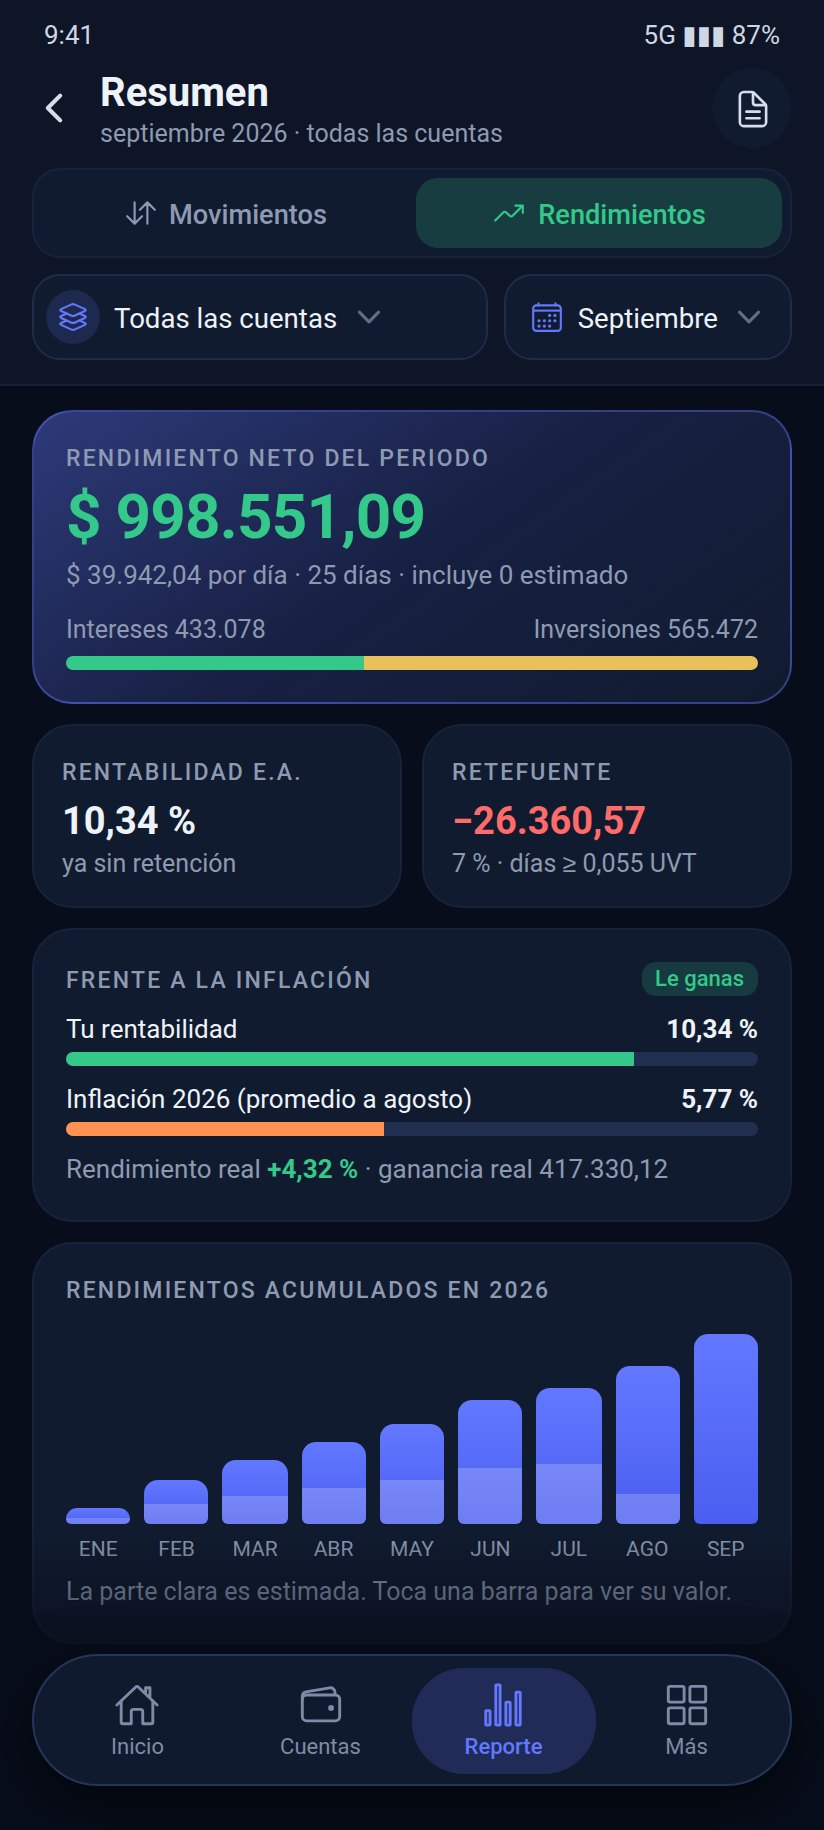
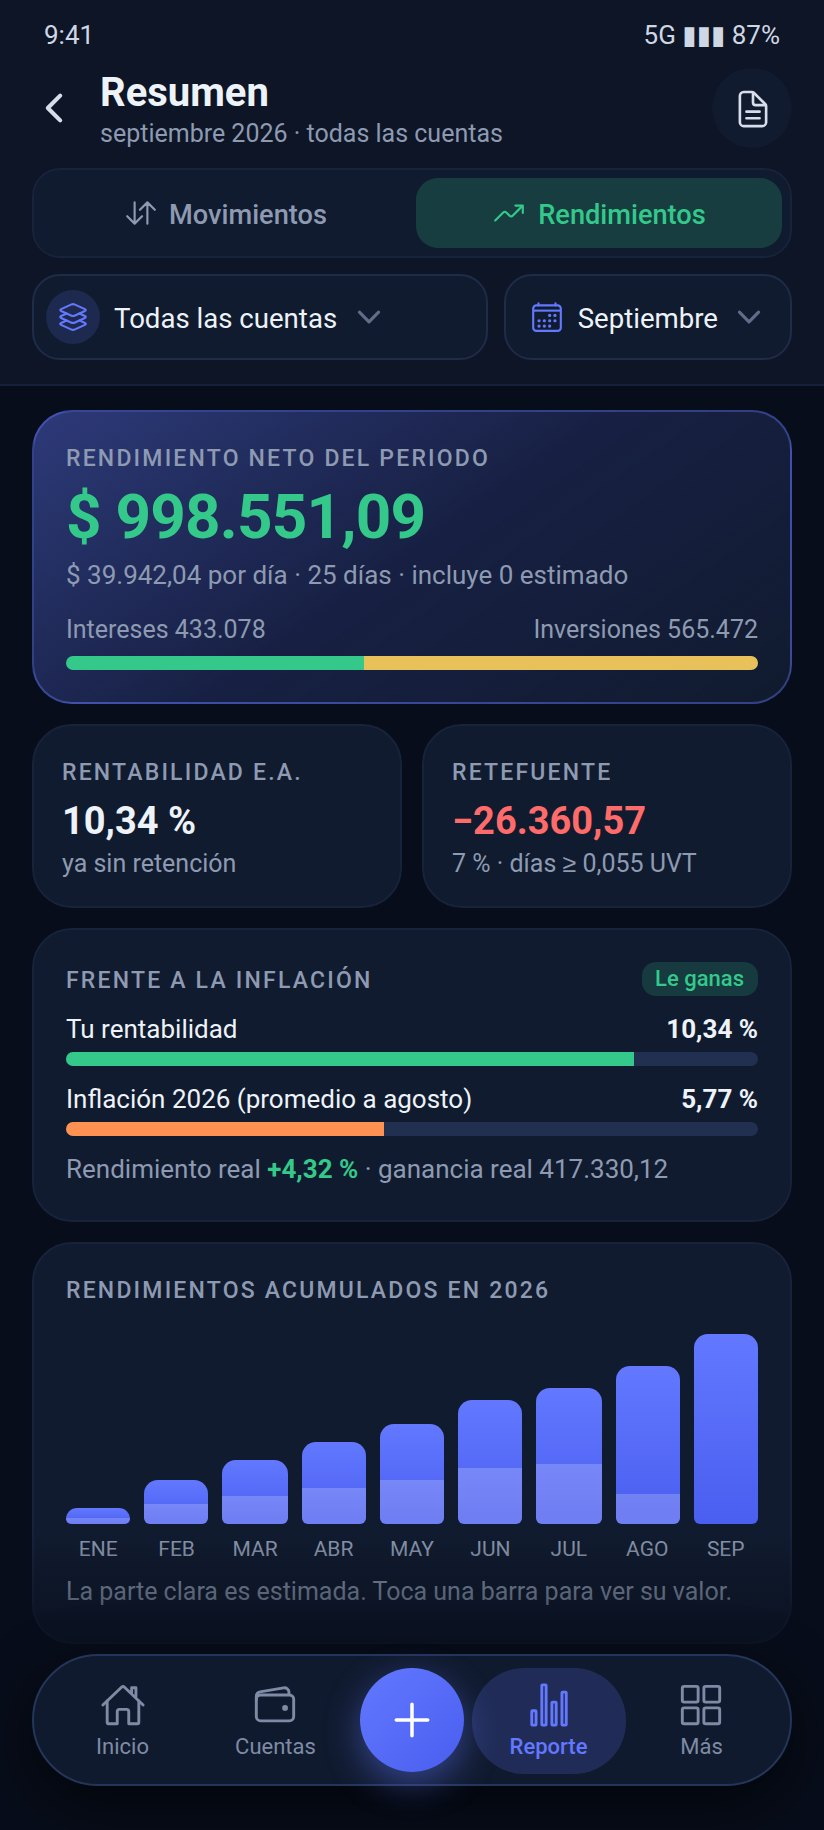
Draw group 2 of the redesign: accounts, net worth and currencies
Sixteen screens covering everything the accounts screen, its editor and
the currency dialog do today, with the rules agreed on group 1. Replaces
the v3 drafts b01-b07. CLAUDE.md records group 1 as approved and the
three changes of access group 2 proposes.

Claude-Session: https://claude.ai/code/session_01QyUqFix1SMdsKVBtd1Wz88

Changed region(s): [[0.3034, 0.9033, 0.7585, 0.9967], [0.7888, 0.9033, 0.8799, 0.9656], [0.1214, 0.9033, 0.182, 0.9656]]

diff --git a/CLAUDE.md b/CLAUDE.md
@@ -2049,8 +2049,8 @@ then does the next start. The groups and where each stands:
 
 | Group | Screens | Mockups | Status |
 |---|---|---|---|
-| 1 | Inicio, the "+" sheet, the movement form (every kind), its pickers, edit and delete | `docs/mockups/1*` (v5) | v4 reviewed by Jose; v5 sent 2026-09-28, waiting |
-| 2 | Cuentas, creating and editing an account, its icon and colour, currencies, net worth | `b0*` (v3 draft) | To redo |
+| 1 | Inicio, the "+" sheet, the movement form (every kind), its pickers, edit and delete | `docs/mockups/1*` (v5) | **Approved** by Jose, 2026-09-28 |
+| 2 | Cuentas, creating and editing an account, its icon and colour, currencies, net worth | `docs/mockups/2*` (v4) | Sent 2026-09-28, waiting for Jose |
 | 3 | Categories and their editor | `b08`-`b13` (v3 draft) | To redo |
 | 4 | Products and yields: how they are reached, an account's products, days, movements, a product with its rates, a CDT | `c*` (v3 draft) | To redo |
 | 5 | Report (money and yields) | `d01`-`d02` (v3 draft) | To redo |
@@ -2123,6 +2123,21 @@ then does the next start. The groups and where each stands:
   five largest categories and "Otras N", names ending in "…", percentages
   in a column of their own; the total spent sits inside the ring. Every
   category with its figure is the list under it.
+
+**Group 2 as sent (v4, 2026-09-28)**, and the three changes of ACCESS in
+it, which Jose has to accept or refuse (everything else is today's screen
+redrawn):
+
+- **Currencies and today's rates in one screen, "Monedas y tasas"**,
+  reached from a row under the accounts. Today the currencies list sits
+  at the foot of the accounts screen and the TRM, its refresh and the
+  typed rates live inside "¿De dónde sale?"; that sheet now shows the
+  rate each line used and links to the new screen.
+- **An account's colour can be chosen** (Ícono, Color, Imagen propia, the
+  order of the category editor). `accounts.color` exists; the editor does
+  not offer it today.
+- **"Nueva cuenta" is a button in the screen's title bar**; the "+" in the
+  bottom bar stays the way to a new movement.
 
 ### The ideas, by what they would take
 

diff --git a/docs/mockups/README.md b/docs/mockups/README.md
@@ -19,9 +19,8 @@ is redone, and superseded by Jose's review of 2026-09-28.
 |---|---|
 | `00-azul-opciones` | The accent: Zafiro (recommended), Cobalto, Índigo, and today's |
 | `1a`–`1n` | Group 1 (v5): Inicio (transfers apart, the donut with a capped legend), one account with products (its two quick buttons), one account with a long name (ellipsis and sliding), the "+" sheet, the movement form for spending, writing a note, a transfer, a move between products, two currencies, the account, product and category lists, editing and deleting |
-| `b01`–`b04` | Cuentas, how net worth is built, currencies and today's rate, adding a currency |
-| `b05`–`b07` | New account (from a PDF or by hand), editing a card, its icon and colour (`b06b`), the limit history |
-| `b08`–`b13` | Categories (expense, product), and the editor: colour by family, icon, own image, a product category |
+| `2a`–`2p` | Group 2 (v4): Cuentas (net worth, sorting, a multi-currency account, a card, one set aside), where net worth comes from, currencies and rates, typing a rate, adding a currency, a new account by hand and from a statement (reading it, and the form it fills), editing a card (top and bottom, the limit and its history), deleting, the icon, colour and own image, the archived, and no accounts yet |
+| `b08`–`b13` | Categories (v3 draft, group 3) (expense, product), and the editor: colour by family, icon, own image, a product category |
 | `c01`–`c11` | Products and yields: the list, an account's sheet with tabs (Productos, Días, Movimientos, Tasas), one day, a product, a CDT, a new rate, a product's own movement, adding an account |
 | `d01`–`d05` | Report (money, yields), reading a statement, Por revisar (and choosing several) |
 | `d06`–`d07` | Avisos del banco, without and with permission |
